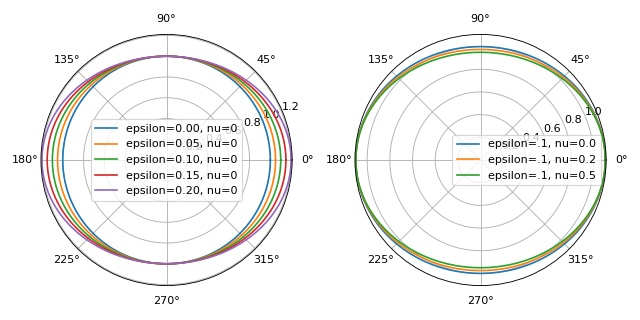
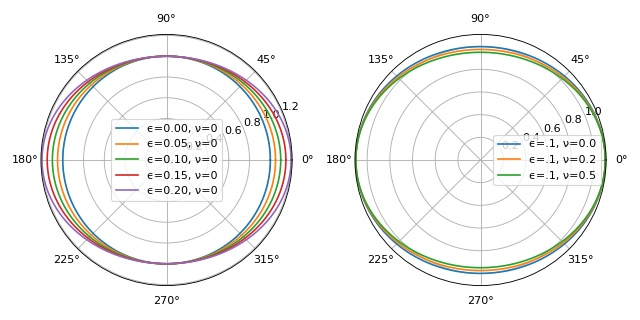
docs: update boundary figure

Changed region(s): [[0.125, 0.375, 0.375, 0.625], [0.6875, 0.4062, 0.9375, 0.5938]]

diff --git a/examples/boundary.py b/examples/boundary.py
@@ -33,12 +33,12 @@ plt.figure(figsize=(8, 4))
 
 ax1 = plt.subplot(121, projection="polar")
 for ep, bi in zip(eps, b1s):
-    ax1.plot(theta, bi, label="epsilon={:.2f}, nu=0".format(ep))
+    ax1.plot(theta, bi, label="ϵ={:.2f}, ν=0".format(ep))
 ax1.legend()
 
 ax2 = plt.subplot(122, projection="polar")
 for nu, bi in zip(nus, b2s):
-    ax2.plot(theta, bi, label="epsilon=.1, nu={:.1f}".format(nu))
+    ax2.plot(theta, bi, label="ϵ=.1, ν={:.1f}".format(nu))
 ax2.legend()
 
 plt.tight_layout()
